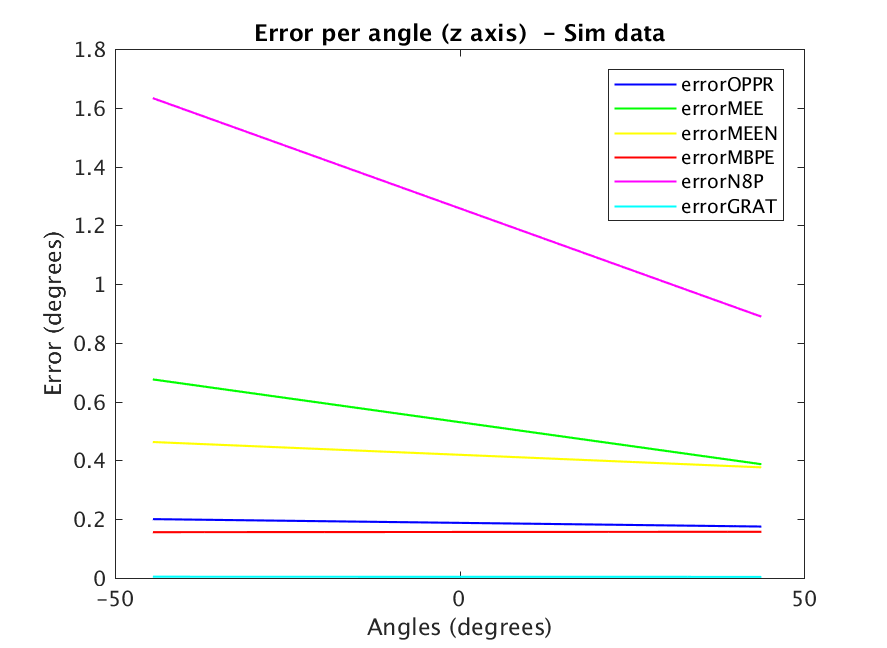
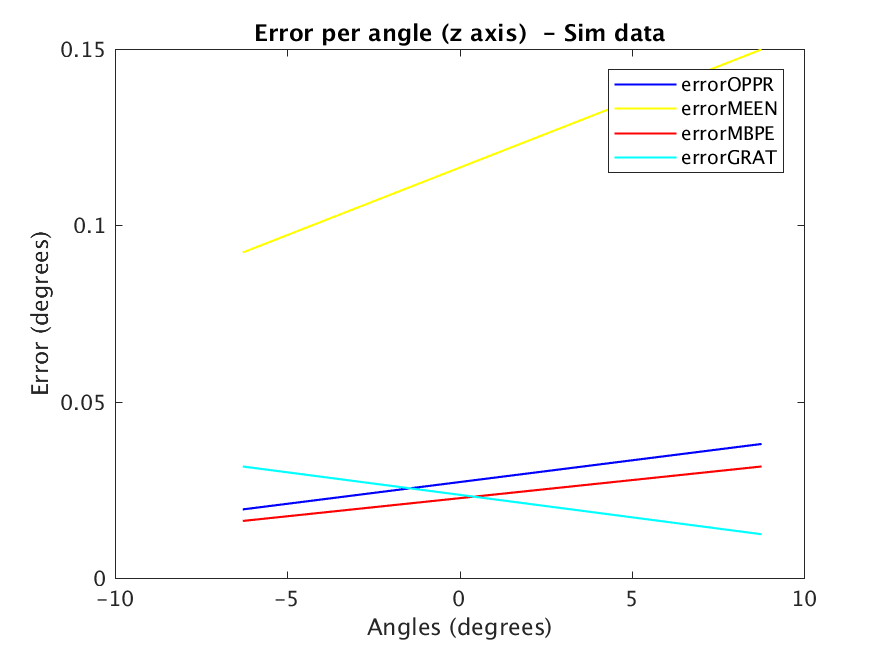
Some fixes

diff --git a/Matlab/runAll.m b/Matlab/runAll.m
@@ -104,6 +104,8 @@ if strcmp(TYPE, 'SIM_AXISANGLES')
                 fprintf('\t | %f | %f |', meR(3, j), pveR(3, j)/axisCount(3));
                 fprintf(fileID, '\t | %f | %f |', meR(3, j), pveR(3, j)/axisCount(3));
             end 
+            fprintf('\n');
+            fprintf(fileID, '\n');
     end
     % Determine the method with least mean error
     [minerror,ind] = min(sum(meR, 1));
@@ -111,14 +113,14 @@ if strcmp(TYPE, 'SIM_AXISANGLES')
     fprintf(fileID, '\nBest method was %s with %f degrees of mean error.\n\n', vars.methods{ind}, minerror/3);
     
     for j=1:nMethods
-        xerr(j, :) = eR( (3*(j-1)+1), :);
-        yerr(j, :) = eR( (3*(j-1)+2), :);
-        zerr(j, :) = eR( (3*(j-1)+3), :);
+        xerr(j, :) = eR( (3*(j-1)+1), (eR( (3*(j-1)+1), :) ~= 0 ));
+        yerr(j, :) = eR( (3*(j-1)+2), (eR( (3*(j-1)+2), :) ~= 0));
+        zerr(j, :) = eR( (3*(j-1)+3), (eR( (3*(j-1)+3), :) ~= 0));
     end
     % Visualise error in terms of axis angle    
-    plotError(ang, xerr, 'Angles (degrees)', 'Error per angle (x axis)  - Sim data', vars.saveDir, vars.methods, vars.colors);
-    plotError(ang, yerr, 'Angles (degrees)', 'Error per angle (y axis)  - Sim data', vars.saveDir, vars.methods, vars.colors);
-    plotError(ang, zerr, 'Angles (degrees)', 'Error per angle (z axis)  - Sim data', vars.saveDir, vars.methods, vars.colors);
+    plotError(ang(1, ang(1,:) ~= 0), xerr, 'Angles (degrees)', 'Error per angle (x axis)  - Sim data', vars.saveDir, vars.methods, vars.colors);
+    plotError(ang(2, ang(2,:) ~= 0), yerr, 'Angles (degrees)', 'Error per angle (y axis)  - Sim data', vars.saveDir, vars.methods, vars.colors);
+    plotError(ang(3, ang(3,:) ~= 0), zerr, 'Angles (degrees)', 'Error per angle (z axis)  - Sim data', vars.saveDir, vars.methods, vars.colors);
     
 end
 
@@ -149,7 +151,8 @@ if strcmp(TYPE, 'REAL_AXISANGLES')
     for j=1:nMethods
             meR(:, j) = safeMean( eR( (3*(j-1)+1):(3*(j-1)+3), :), 2);
             pveR(:, j)  = sum( (eR( (3*(j-1)+1):(3*(j-1)+3), :) - meR(:, j)).^2, 2);
-            if axisCount(1)
+            if axisCount(1)    plotError(ang, xerr, 'Angles (degrees)', 'Error per angle (x axis)  - Sim data', vars.saveDir, vars.methods, vars.colors);
+
                 fprintf('%s \t | %f | %f |', vars.methods{j}, meR(1, j), pveR(1, j)/axisCount(1));
                 fprintf(fileID, '%s \t | %f | %f |', vars.methods{j}, meR(1, j), pveR(1, j)/axisCount(1));
             end
@@ -161,6 +164,8 @@ if strcmp(TYPE, 'REAL_AXISANGLES')
                 fprintf('\t | %f | %f |', meR(3, j), pveR(3, j)/axisCount(3));
                 fprintf(fileID, '\t | %f | %f |', meR(3, j), pveR(3, j)/axisCount(3));
             end
+            fprintf('\n');
+            fprintf(fileID, '\n');
     end
         
     % Determine the method with least mean error
@@ -169,14 +174,14 @@ if strcmp(TYPE, 'REAL_AXISANGLES')
     fprintf(fileID, '\nBest method was %s with %f degrees of mean error.\n\n', vars.methods{ind}, minerror/3);
 
     for j=1:nMethods
-        xerr(j, :) = eR( (3*(j-1)+1), :);
-        yerr(j, :) = eR( (3*(j-1)+2), :);
-        zerr(j, :) = eR( (3*(j-1)+3), :);
+        xerr(j, :) = eR( (3*(j-1)+1), (eR( (3*(j-1)+1), :) ~= 0 ));
+        yerr(j, :) = eR( (3*(j-1)+2), (eR( (3*(j-1)+2), :) ~= 0));
+        zerr(j, :) = eR( (3*(j-1)+3), (eR( (3*(j-1)+3), :) ~= 0));
     end
     
-    plotError(ang(1,:), xerr, 'Angles (degrees)', 'Error per angle (x axis) - Real data', vars.saveDir, vars.methods, vars.colors);
-    plotError(ang(2,:), yerr, 'Angles (degrees)', 'Error per angle (y axis) - Real data', vars.saveDir, vars.methods, vars.colors);
-    plotError(ang(3,:), zerr, 'ransacResAngles (degrees)', 'Error per angle (z axis) - Real data', vars.saveDir, vars.methods, vars.colors);
+    plotError(ang(1, ang(1,:) ~= 0), xerr, 'Angles (degrees)', 'Error per angle (x axis) - Real data', vars.saveDir, vars.methods, vars.colors);
+    plotError(ang(2, ang(2,:) ~= 0), yerr, 'Angles (degrees)', 'Error per angle (y axis) - Real data', vars.saveDir, vars.methods, vars.colors);
+    plotError(ang(3, ang(3,:) ~= 0), zerr, 'ransacResAngles (degrees)', 'Error per angle (z axis) - Real data', vars.saveDir, vars.methods, vars.colors);
     end
 
 end

diff --git a/Matlab/workshop.m b/Matlab/workshop.m
@@ -2,7 +2,7 @@ close all;
 clear all;
 
 vars.methods = {'OPPR', 'MEEN', 'MBPE', 'GRAT'};
-vars.colors = {'b', 'y', 'r', 'c'};
+vars.colors = {'b', 'g', 'r', 'c'};
 vars.filename = 'results.txt';
 vars.baseline = [0.02 -0.055 0.055]';
 vars.intrinsics = [1.1573e+03 -3.3579         975.9459; 
@@ -20,17 +20,17 @@ vars.ransac.maxErr              = 0.005;   % in meters
 
 %==========================================================================
 % SIMULATION
-vars.nMatches = 50;
+vars.nMatches = 30;
 vars.nFalseMatches = 3;
 vars.saccadeDistrSigma = 10;
 vars.minDistToCam = 0.05;
-vars.nSaccades = 10;
+vars.nSaccades = 20;
 vars.nNoisePixels = 10;
 
 vars.maxDistToCam= 0.24;
 vars.projectionRadius = vars.maxDistToCam + 1;
 vars.saveDir = '../results/Matlab/sim/d0.24/';
-runAll('SIM_AXISANGLES', vars);
+%runAll('SIM_AXISANGLES', vars);
 
 vars.maxDistToCam = 5.77;
 vars.projectionRadius = vars.maxDistToCam + 1;        

diff --git a/Matlab/simulator/runSimulation.m b/Matlab/simulator/runSimulation.m
@@ -19,7 +19,6 @@ function [plotAng, axisCount, eR, eT, ransacRes] = runSimulation(angles, vars)
 I = [1 0 0; 0 1 0; 0 0 1];
 axisCount = zeros(1,3);
 ransacRes = zeros(3, vars.nSaccades);
-plotAng = zeros(3, vars.nSaccades);
 
 % x-1, y-2, z-3 
 for i=1:3
@@ -39,10 +38,10 @@ for i=1:3
                 continue;
             end
         end
-        figure; plot(m1(1,:), m1(2,:), 'bx'); hold on; plot(m2(1,:), m2(2,:), 'rx');
+        %figure; plot(m1(1,:), m1(2,:), 'bx'); hold on; plot(m2(1,:), m2(2,:), 'rx');
         
         % Save angles for plot
-        plotAng(i, j) = angles(j);
+        plotAng(i, axisCount(i)+1) = angles(j)*180/pi;
         
         %% Estimate transformation error
         [eRi, eTi]= estimator(m1, m2, vars.projectionRadius, vars.intrinsics, vars.baseline, rotm2eul(R), T, vars.methods);

diff --git a/Matlab/simulator/falseMatchesGen.m b/Matlab/simulator/falseMatchesGen.m
@@ -13,7 +13,7 @@ function [mn1, mn2] = falseMatchesGen(m1, m2, nFalseMatches, imgDim)
 %%%%%%%%%%%%%%%%%%%%%%%%%%%%%%%%%%%%%%%%%
 
 nMatches = size(m1, 2);
-which = round(nMatches.*rand(nFalseMatches, 1));
+which = round((nMatches-1).*rand(nFalseMatches, 1))+1;
 randx = round(imgDim(1).* rand(nFalseMatches,1));
 randy = round(imgDim(2).* rand(nFalseMatches,1));
 mn1 = m1;
